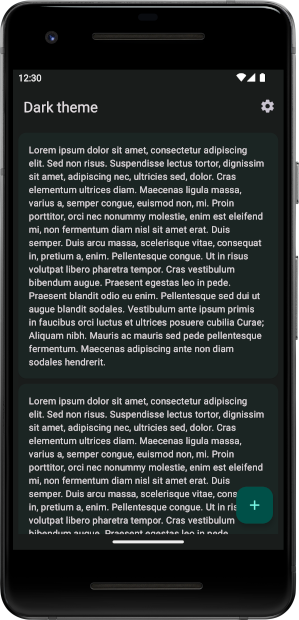
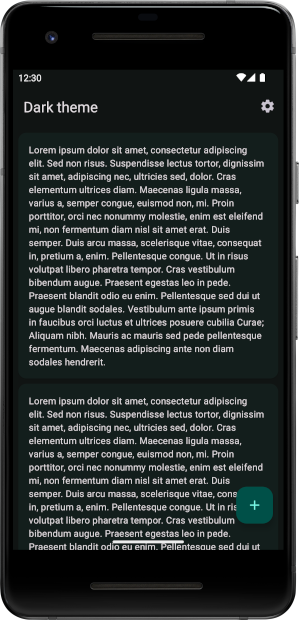
Display content edge-to-edge

Changed region(s): [[0.0903, 0.8581, 0.8729, 0.8887]]

diff --git a/darktheme/app/src/main/java/com/kfaraj/samples/darktheme/util/EdgeToEdge.kt b/darktheme/app/src/main/java/com/kfaraj/samples/darktheme/util/EdgeToEdge.kt
@@ -1,0 +1,63 @@
+package com.kfaraj.samples.darktheme.util
+
+import android.view.View
+import android.view.ViewGroup.MarginLayoutParams
+import androidx.core.view.ViewCompat
+import androidx.core.view.marginBottom
+import androidx.core.view.marginLeft
+import androidx.core.view.marginRight
+import androidx.core.view.marginTop
+import androidx.core.view.updateLayoutParams
+import androidx.core.view.updatePadding
+
+/**
+ * Increases margin to avoid visual overlap caused by edge-to-edge.
+ */
+fun View.applyWindowInsetsMargin(
+    typeMask: Int,
+    applyLeft: Boolean = false,
+    applyTop: Boolean = false,
+    applyRight: Boolean = false,
+    applyBottom: Boolean = false
+) {
+    val marginLeft = marginLeft
+    val marginTop = marginTop
+    val marginRight = marginRight
+    val marginBottom = marginBottom
+    ViewCompat.setOnApplyWindowInsetsListener(this) { v, insets ->
+        val typeInsets = insets.getInsets(typeMask)
+        v.updateLayoutParams<MarginLayoutParams> {
+            leftMargin = marginLeft + if (applyLeft) typeInsets.left else 0
+            topMargin = marginTop + if (applyTop) typeInsets.top else 0
+            rightMargin = marginRight + if (applyRight) typeInsets.right else 0
+            bottomMargin = marginBottom + if (applyBottom) typeInsets.bottom else 0
+        }
+        insets
+    }
+}
+
+/**
+ * Increases padding to avoid visual overlap caused by edge-to-edge.
+ */
+fun View.applyWindowInsetsPadding(
+    typeMask: Int,
+    applyLeft: Boolean = false,
+    applyTop: Boolean = false,
+    applyRight: Boolean = false,
+    applyBottom: Boolean = false
+) {
+    val paddingLeft = paddingLeft
+    val paddingTop = paddingTop
+    val paddingRight = paddingRight
+    val paddingBottom = paddingBottom
+    ViewCompat.setOnApplyWindowInsetsListener(this) { v, insets ->
+        val typeInsets = insets.getInsets(typeMask)
+        v.updatePadding(
+            left = paddingLeft + if (applyLeft) typeInsets.left else 0,
+            top = paddingTop + if (applyTop) typeInsets.top else 0,
+            right = paddingRight + if (applyRight) typeInsets.right else 0,
+            bottom = paddingBottom + if (applyBottom) typeInsets.bottom else 0
+        )
+        insets
+    }
+}

diff --git a/pokedex/app/src/main/java/com/kfaraj/samples/pokedex/util/EdgeToEdge.kt b/pokedex/app/src/main/java/com/kfaraj/samples/pokedex/util/EdgeToEdge.kt
@@ -1,0 +1,63 @@
+package com.kfaraj.samples.pokedex.util
+
+import android.view.View
+import android.view.ViewGroup.MarginLayoutParams
+import androidx.core.view.ViewCompat
+import androidx.core.view.marginBottom
+import androidx.core.view.marginLeft
+import androidx.core.view.marginRight
+import androidx.core.view.marginTop
+import androidx.core.view.updateLayoutParams
+import androidx.core.view.updatePadding
+
+/**
+ * Increases margin to avoid visual overlap caused by edge-to-edge.
+ */
+fun View.applyWindowInsetsMargin(
+    typeMask: Int,
+    applyLeft: Boolean = false,
+    applyTop: Boolean = false,
+    applyRight: Boolean = false,
+    applyBottom: Boolean = false
+) {
+    val marginLeft = marginLeft
+    val marginTop = marginTop
+    val marginRight = marginRight
+    val marginBottom = marginBottom
+    ViewCompat.setOnApplyWindowInsetsListener(this) { v, insets ->
+        val typeInsets = insets.getInsets(typeMask)
+        v.updateLayoutParams<MarginLayoutParams> {
+            leftMargin = marginLeft + if (applyLeft) typeInsets.left else 0
+            topMargin = marginTop + if (applyTop) typeInsets.top else 0
+            rightMargin = marginRight + if (applyRight) typeInsets.right else 0
+            bottomMargin = marginBottom + if (applyBottom) typeInsets.bottom else 0
+        }
+        insets
+    }
+}
+
+/**
+ * Increases padding to avoid visual overlap caused by edge-to-edge.
+ */
+fun View.applyWindowInsetsPadding(
+    typeMask: Int,
+    applyLeft: Boolean = false,
+    applyTop: Boolean = false,
+    applyRight: Boolean = false,
+    applyBottom: Boolean = false
+) {
+    val paddingLeft = paddingLeft
+    val paddingTop = paddingTop
+    val paddingRight = paddingRight
+    val paddingBottom = paddingBottom
+    ViewCompat.setOnApplyWindowInsetsListener(this) { v, insets ->
+        val typeInsets = insets.getInsets(typeMask)
+        v.updatePadding(
+            left = paddingLeft + if (applyLeft) typeInsets.left else 0,
+            top = paddingTop + if (applyTop) typeInsets.top else 0,
+            right = paddingRight + if (applyRight) typeInsets.right else 0,
+            bottom = paddingBottom + if (applyBottom) typeInsets.bottom else 0
+        )
+        insets
+    }
+}

diff --git a/pokedex/app/src/main/java/com/kfaraj/samples/pokedex/MainActivity.kt b/pokedex/app/src/main/java/com/kfaraj/samples/pokedex/MainActivity.kt
@@ -3,10 +3,13 @@ package com.kfaraj.samples.pokedex
 import android.os.Bundle
 import androidx.appcompat.app.AppCompatActivity
 import androidx.core.app.ActivityCompat
+import androidx.core.view.WindowCompat
+import androidx.core.view.WindowInsetsCompat
 import androidx.navigation.NavHost
 import androidx.navigation.ui.AppBarConfiguration
 import androidx.navigation.ui.setupWithNavController
 import com.google.android.material.appbar.MaterialToolbar
+import com.kfaraj.samples.pokedex.util.applyWindowInsetsMargin
 import dagger.hilt.android.AndroidEntryPoint
 
 /**
@@ -17,11 +20,17 @@ class MainActivity : AppCompatActivity(R.layout.activity_main) {
 
     override fun onCreate(savedInstanceState: Bundle?) {
         super.onCreate(savedInstanceState)
+        WindowCompat.setDecorFitsSystemWindows(window, false)
         val navHost = supportFragmentManager.findFragmentById(R.id.nav_host) as NavHost
         val navController = navHost.navController
         val appBarConfiguration = AppBarConfiguration(navController.graph)
         val toolbar = ActivityCompat.requireViewById<MaterialToolbar>(this, R.id.toolbar)
         toolbar.setupWithNavController(navController, appBarConfiguration)
+        toolbar.applyWindowInsetsMargin(
+            WindowInsetsCompat.Type.systemBars(),
+            applyLeft = true,
+            applyRight = true
+        )
     }
 
 }

diff --git a/darktheme/app/src/main/java/com/kfaraj/samples/darktheme/MainActivity.kt b/darktheme/app/src/main/java/com/kfaraj/samples/darktheme/MainActivity.kt
@@ -8,9 +8,12 @@ import android.view.View.OnClickListener
 import androidx.appcompat.app.AppCompatActivity
 import androidx.appcompat.widget.Toolbar.OnMenuItemClickListener
 import androidx.core.app.ActivityCompat
+import androidx.core.view.WindowCompat
+import androidx.core.view.WindowInsetsCompat
 import com.google.android.material.appbar.MaterialToolbar
 import com.google.android.material.floatingactionbutton.FloatingActionButton
 import com.google.android.material.snackbar.Snackbar
+import com.kfaraj.samples.darktheme.util.applyWindowInsetsMargin
 
 /**
  * Demonstrates how to implement a dark theme.
@@ -21,9 +24,15 @@ class MainActivity : AppCompatActivity(R.layout.activity_main),
 
     override fun onCreate(savedInstanceState: Bundle?) {
         super.onCreate(savedInstanceState)
+        WindowCompat.setDecorFitsSystemWindows(window, false)
         val toolbar = ActivityCompat.requireViewById<MaterialToolbar>(this, R.id.toolbar)
         val fab = ActivityCompat.requireViewById<FloatingActionButton>(this, R.id.fab)
         toolbar.setOnMenuItemClickListener(this)
+        toolbar.applyWindowInsetsMargin(
+            WindowInsetsCompat.Type.systemBars(),
+            applyLeft = true,
+            applyRight = true
+        )
         fab.setOnClickListener(this)
     }
 

diff --git a/pokedex/app/src/main/java/com/kfaraj/samples/pokedex/ui/PokedexFragment.kt b/pokedex/app/src/main/java/com/kfaraj/samples/pokedex/ui/PokedexFragment.kt
@@ -4,6 +4,7 @@ import android.os.Bundle
 import android.view.View
 import android.view.ViewGroup
 import androidx.core.view.ViewCompat
+import androidx.core.view.WindowInsetsCompat
 import androidx.core.view.doOnPreDraw
 import androidx.fragment.app.Fragment
 import androidx.fragment.app.viewModels
@@ -17,6 +18,7 @@ import com.google.android.material.transition.MaterialElevationScale
 import com.kfaraj.samples.pokedex.R
 import com.kfaraj.samples.pokedex.domain.FormatIdUseCase
 import com.kfaraj.samples.pokedex.domain.FormatNameUseCase
+import com.kfaraj.samples.pokedex.util.applyWindowInsetsPadding
 import dagger.hilt.android.AndroidEntryPoint
 import kotlinx.coroutines.flow.collectLatest
 import kotlinx.coroutines.launch
@@ -58,6 +60,10 @@ class PokedexFragment : Fragment(R.layout.fragment_pokedex) {
         }
         recyclerView.setHasFixedSize(true)
         recyclerView.adapter = adapter
+        recyclerView.applyWindowInsetsPadding(
+            WindowInsetsCompat.Type.systemBars(),
+            applyBottom = true
+        )
         (view as? ViewGroup)?.isTransitionGroup = true
         postponeEnterTransition()
         viewLifecycleOwner.lifecycleScope.launch {

diff --git a/darktheme/app/src/main/java/com/kfaraj/samples/darktheme/SettingsActivity.kt b/darktheme/app/src/main/java/com/kfaraj/samples/darktheme/SettingsActivity.kt
@@ -5,7 +5,10 @@ import android.view.View
 import android.view.View.OnClickListener
 import androidx.appcompat.app.AppCompatActivity
 import androidx.core.app.ActivityCompat
+import androidx.core.view.WindowCompat
+import androidx.core.view.WindowInsetsCompat
 import com.google.android.material.appbar.MaterialToolbar
+import com.kfaraj.samples.darktheme.util.applyWindowInsetsMargin
 
 /**
  * Contains settings.
@@ -15,8 +18,14 @@ class SettingsActivity : AppCompatActivity(R.layout.activity_settings),
 
     override fun onCreate(savedInstanceState: Bundle?) {
         super.onCreate(savedInstanceState)
+        WindowCompat.setDecorFitsSystemWindows(window, false)
         val toolbar = ActivityCompat.requireViewById<MaterialToolbar>(this, R.id.toolbar)
         toolbar.setNavigationOnClickListener(this)
+        toolbar.applyWindowInsetsMargin(
+            WindowInsetsCompat.Type.systemBars(),
+            applyLeft = true,
+            applyRight = true
+        )
     }
 
     override fun onClick(v: View) {

diff --git a/darktheme/app/src/main/java/com/kfaraj/samples/darktheme/SettingsFragment.kt b/darktheme/app/src/main/java/com/kfaraj/samples/darktheme/SettingsFragment.kt
@@ -3,8 +3,11 @@ package com.kfaraj.samples.darktheme
 import android.content.SharedPreferences
 import android.content.SharedPreferences.OnSharedPreferenceChangeListener
 import android.os.Bundle
+import android.view.View
 import androidx.appcompat.app.AppCompatDelegate
+import androidx.core.view.WindowInsetsCompat
 import androidx.preference.PreferenceFragmentCompat
+import com.kfaraj.samples.darktheme.util.applyWindowInsetsPadding
 
 /**
  * Contains settings.
@@ -14,6 +17,14 @@ class SettingsFragment : PreferenceFragmentCompat(),
 
     override fun onCreatePreferences(savedInstanceState: Bundle?, rootKey: String?) {
         setPreferencesFromResource(R.xml.preferences, rootKey)
+    }
+
+    override fun onViewCreated(view: View, savedInstanceState: Bundle?) {
+        super.onViewCreated(view, savedInstanceState)
+        listView.applyWindowInsetsPadding(
+            WindowInsetsCompat.Type.systemBars(),
+            applyBottom = true
+        )
     }
 
     override fun onStart() {

diff --git a/darktheme/app/src/main/java/com/kfaraj/samples/darktheme/MainFragment.kt b/darktheme/app/src/main/java/com/kfaraj/samples/darktheme/MainFragment.kt
@@ -1,8 +1,22 @@
 package com.kfaraj.samples.darktheme
 
+import android.os.Bundle
+import android.view.View
+import androidx.core.view.WindowInsetsCompat
 import androidx.fragment.app.Fragment
+import com.kfaraj.samples.darktheme.util.applyWindowInsetsPadding
 
 /**
  * Demonstrates how to implement a dark theme.
  */
-class MainFragment : Fragment(R.layout.fragment_main)
+class MainFragment : Fragment(R.layout.fragment_main) {
+
+    override fun onViewCreated(view: View, savedInstanceState: Bundle?) {
+        super.onViewCreated(view, savedInstanceState)
+        view.applyWindowInsetsPadding(
+            WindowInsetsCompat.Type.systemBars(),
+            applyBottom = true
+        )
+    }
+
+}
